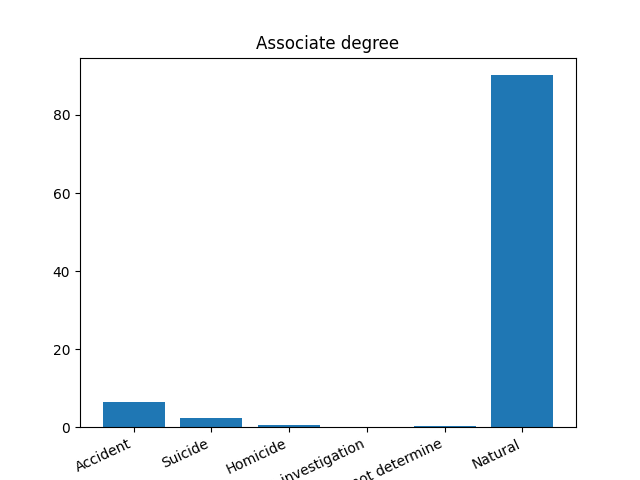
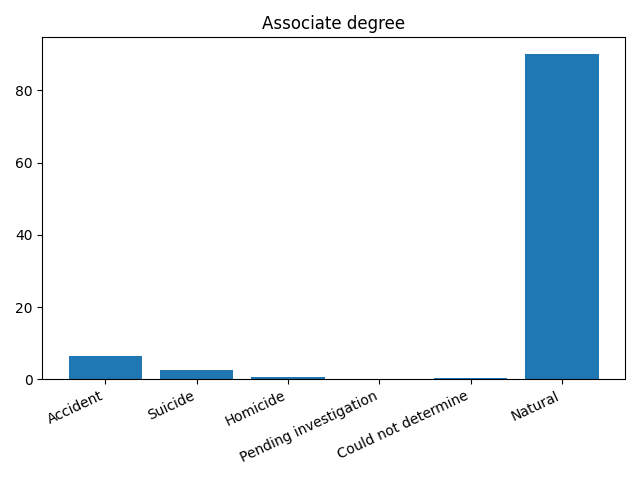
add stackcharts & gifs & new graphs

diff --git a/plot_csv/plot_csv.py b/plot_csv/plot_csv.py
@@ -1,7 +1,6 @@
 import matplotlib.pyplot as plt
 import json
-
-JSON_PATH = "/mnt/d/csc5003data/2005_codes.json"
+from tabulate import tabulate
 
 
 def deco(filename):
@@ -13,6 +12,7 @@ def deco(filename):
                 func(f)
             plt.xticks(rotation=30, ha="right")
             plt.title(func.__doc__)
+            plt.tight_layout()
             plt.savefig(save_path)
             plt.clf()
 
@@ -22,6 +22,8 @@ def deco(filename):
 
 
 def get_true_value(col_name, encoded_value):
+    JSON_PATH = "/mnt/d/csc5003data/2005_codes.json"
+
     with open(JSON_PATH) as f:
         json_file = json.load(f)
         return json_file[col_name].get(encoded_value)
@@ -65,19 +67,15 @@ def cause(f):
     header = f.readline().split(",")
     causes = []
     deaths = []
+    table = []
     for line in f:
         line = line.strip().split(",")
-        cause = get_true_value(header[0], line[0])
-        cause = cause.split("(")[0]
         count = int(line[1])
-        causes.append(cause)
+        causes.append(line[0])
+        table.append([line[0], get_true_value(header[0], line[0])])
         deaths.append(count)
+    print(tabulate(table, headers=["Code", "Cause"], tablefmt="github"))
     plt.bar(causes, deaths, width=0.7)
-
-
-@deco("causeRecodeByMonth")
-def cause_month(f):
-    pass
 
 
 def education():
@@ -105,18 +103,100 @@ def education():
             figid += 1
             plt.title(education)
             plt.xticks(rotation=25, ha="right")
+            plt.tight_layout()
 
             plt.savefig("./img/education/" + education + ".png")
+            plt.clf()
 
 
-@deco("mannerOfDeathByDay")
-def manner_by_day(f):
-    pass
+def educationV2():
+    with open("./data/educationPercentage.csv") as f:
+        header = f.readline().split(",")
+        percentages = []
+        _all = dict()
+        for line in f:
+            line = line.strip().split(",")
+            education = get_true_value(header[0], line[0])
+            manner = get_true_value(header[1], line[1])
+            percentage = float(line[-1])
+            if not education or not manner:
+                continue
+
+            if not manner in _all:
+                _all[manner] = ([], [])
+            _all[manner][0].append(education)
+            _all[manner][1].append(percentage)
+
+        figid = 0
+        for manners, (education, percentages) in _all.items():
+            plt.figure(figid)
+            plt.bar(education, percentages)
+            figid += 1
+            plt.title(manners)
+            plt.xticks(rotation=25, ha="right")
+            plt.tight_layout()
+            plt.savefig("./img/manners/" + manners + ".png")
+            plt.clf()
 
 
-@deco("mannerOfDeathByMaritalStatus")
-def manner_by_marital(f):
-    pass
+def manner_by_day():
+    with open("./data/mannerOfDeathByDay.csv") as f:
+        header = f.readline().split(",")
+        percentages = []
+        _all = dict()
+        for line in f:
+            line = line.strip().split(",")
+            day = get_true_value(header[0], line[0])
+            manner = get_true_value(header[1], line[1])
+            percentage = float(line[-1])
+            if not day or not manner:
+                continue
+
+            if not manner in _all:
+                _all[manner] = ([], [])
+            _all[manner][0].append(day)
+            _all[manner][1].append(percentage)
+
+        figid = 0
+        for manners, (day, percentages) in _all.items():
+            plt.figure(figid)
+            plt.bar(day, percentages)
+            figid += 1
+            plt.title(manners)
+            plt.xticks(rotation=25, ha="right")
+            plt.tight_layout()
+            plt.savefig("./img/manners_day/" + manners + ".png")
+            plt.clf()
+
+
+def manner_by_marital():
+    with open("./data/mannerOfDeathByMaritalStatus.csv") as f:
+        header = f.readline().split(",")
+        percentages = []
+        _all = dict()
+        for line in f:
+            line = line.strip().split(",")
+            status = get_true_value(header[0], line[0])
+            manner = get_true_value(header[1], line[1])
+            percentage = float(line[-1])
+            if not status or not manner:
+                continue
+
+            if not manner in _all:
+                _all[manner] = ([], [])
+            _all[manner][0].append(status)
+            _all[manner][1].append(percentage)
+
+        figid = 0
+        for status, (manner, percentages) in _all.items():
+            plt.figure(figid)
+            plt.bar(manner, percentages)
+            figid += 1
+            plt.title(status)
+            plt.xticks(rotation=25, ha="right")
+            plt.tight_layout()
+            plt.savefig("./img/marital_status/" + status + ".png")
+            plt.clf()
 
 
 @deco("racePercentage")
@@ -140,11 +220,12 @@ def main():
     age()
     autopsy()
     cause()
-    cause_month()
     education()
     manner_by_day()
     manner_by_marital()
     race()
+    educationV2()
 
 
-main()
+if __name__ == "__main__":
+    main()

diff --git a/plot_csv/causevsMonth.py b/plot_csv/causevsMonth.py
@@ -1,0 +1,44 @@
+import matplotlib.pyplot as plt
+import pandas as pd
+import json
+
+
+def get_true_value(encoded_value):
+    JSON_PATH = "/mnt/d/csc5003data/2005_codes.json"
+    with open(JSON_PATH) as f:
+        json_file = json.load(f)
+        if str(encoded_value) == "nan":
+            return "Unknown"
+        if COL_NAME == "month_of_death":
+            res = json_file[COL_NAME].get(str(encoded_value))
+            return res
+
+        res = json_file[COL_NAME].get("0" + str(encoded_value))
+        return res
+
+
+# Read CSV data from a file
+file_path = "./data/causeRecodeByMonth.csv"
+df = pd.read_csv(file_path, dtype={"39_cause_recode": str, "month_of_death": str})
+COL_NAME = "39_cause_recode"
+df["39_cause_recode"] = df["39_cause_recode"].apply(get_true_value)
+
+COL_NAME = "month_of_death"
+df["month_of_death"] = df["month_of_death"].apply(get_true_value)
+
+# Pivot the DataFrame for better visualization
+df_pivot = df.pivot(index="month_of_death", columns="39_cause_recode", values="total")
+
+# Plot stacked bar chart
+ax = df_pivot.plot(kind="bar", stacked=True, figsize=(10, 6), colormap="viridis")
+
+# Customize the chart
+ax.get_legend().remove()
+ax.set_ylabel("Deaths")
+ax.set_xlabel("month_of_death")
+ax.set_title("Stacked Bar Chart - month_of_death vs. Manner of Death")
+
+# Show the plot
+plt.tight_layout()
+plt.xticks(rotation=30, ha="right")
+plt.savefig("./img/month_of_death.png")

diff --git a/plot_csv/causeVsDay.py b/plot_csv/causeVsDay.py
@@ -1,0 +1,47 @@
+import matplotlib.pyplot as plt
+import pandas as pd
+import json
+
+
+def get_true_value(encoded_value):
+    JSON_PATH = "/mnt/d/csc5003data/2005_codes.json"
+    with open(JSON_PATH) as f:
+        json_file = json.load(f)
+        if str(encoded_value) == "nan":
+            return "Unknown"
+
+        try:
+            res = json_file[COL_NAME].get(str(int(encoded_value)))
+            return res
+        except:
+            res = json_file[COL_NAME].get(str(encoded_value))
+            return res
+
+
+# Read CSV data from a file
+file_path = "./data/mannerOfDeathByDay.csv"
+df = pd.read_csv(file_path)
+
+COL_NAME = "manner_of_death"
+df["manner_of_death"] = df["manner_of_death"].apply(get_true_value)
+COL_NAME = "day_of_week_of_death"
+df["day_of_week_of_death"] = df["day_of_week_of_death"].apply(get_true_value)
+
+# Pivot the DataFrame for better visualization
+df_pivot = df.pivot(
+    index="day_of_week_of_death", columns="manner_of_death", values="percentage"
+)
+
+
+# Plot stacked bar chart
+ax = df_pivot.plot(kind="bar", stacked=True, figsize=(10, 6), colormap="viridis")
+
+# Customize the chart
+ax.set_ylabel("Percentage")
+ax.set_xlabel("day_of_week")
+ax.set_title("Stacked Bar Chart - day_of_week_of_death vs. Manner of Death")
+
+# Show the plot
+plt.tight_layout()
+plt.xticks(rotation=30, ha="right")
+plt.savefig("./img/mannerOfDeathByDay.png")

diff --git a/plot_csv/causeVsMarital.py b/plot_csv/causeVsMarital.py
@@ -1,0 +1,47 @@
+import matplotlib.pyplot as plt
+import pandas as pd
+import json
+
+
+def get_true_value(encoded_value):
+    JSON_PATH = "/mnt/d/csc5003data/2005_codes.json"
+    with open(JSON_PATH) as f:
+        json_file = json.load(f)
+        if str(encoded_value) == "nan":
+            return "Unknown"
+
+        try:
+            res = json_file[COL_NAME].get(str(int(encoded_value)))
+            return res
+        except:
+            res = json_file[COL_NAME].get(str(encoded_value))
+            return res
+
+
+# Read CSV data from a file
+file_path = "./data/mannerOfDeathByMaritalStatus.csv"
+df = pd.read_csv(file_path)
+
+ZCOL_NAME = "manner_of_death"
+df["manner_of_death"] = df["manner_of_death"].apply(get_true_value)
+COL_NAME = "marital_status"
+df["marital_status"] = df["marital_status"].apply(get_true_value)
+
+# Pivot the DataFrame for better visualization
+df_pivot = df.pivot(
+    index="marital_status", columns="manner_of_death", values="percentage"
+)
+
+
+# Plot stacked bar chart
+ax = df_pivot.plot(kind="bar", stacked=True, figsize=(10, 6), colormap="viridis")
+
+# Customize the chart
+ax.set_ylabel("Percentage")
+ax.set_xlabel("Marital Status")
+ax.set_title("Stacked Bar Chart - Marital Status vs. Manner of Death")
+
+# Show the plot
+plt.tight_layout()
+plt.xticks(rotation=30, ha="right")
+plt.savefig("./img/causeVsMaritalStatus.png")
